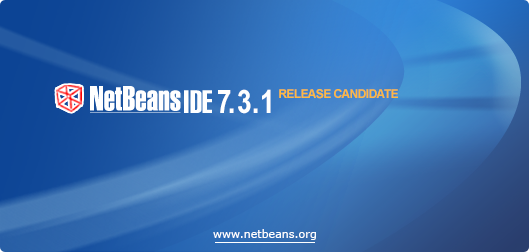
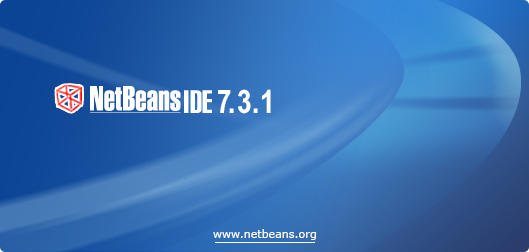
7.3.1 FCS branding.

Changed region(s): [[0.5142, 0.3333, 0.7561, 0.3889]]

diff --git a/installer/infra/build/web/start.html b/installer/infra/build/web/start.html
@@ -180,13 +180,6 @@
                                                     replace("{1}",LICENSE_FILES_LINK).
                                                     replace("{2}",LICENSE_FILES_LINK))
                                             </script>
-                                            <br><br>
-                                                <p>
-                                                    <script type="text/javascript">
-                                                            message(LEGAL_WARNING_MESSAGE)
-                                                    </script>
-                                                </p>
-
                                         </div>
                                     </div>
 

diff --git a/installer/infra/build/web/index.html b/installer/infra/build/web/index.html
@@ -278,12 +278,6 @@
                                         replace("{1}",LICENSE_FILES_LINK).
                                         replace("{2}",LICENSE_FILES_LINK))
                                 </script>
-                                <br><br>
-                                    <p>
-                                        <script type="text/javascript">
-                                                message(LEGAL_WARNING_MESSAGE)
-                                        </script>
-                                    </p>
                             </div>
                         </div>
 

diff --git a/installer/infra/build/web/js/build_info.js b/installer/infra/build/web/js/build_info.js
@@ -64,8 +64,8 @@ build_info.BOUNCER_URL = "http://services.netbeans.org/bouncer/index.php";
 build_info.USE_HTML_ZIP_LISTING = 1;
 
 build_info.add_download_tabs = function() {
-	add_download_tab("7.3", "http://netbeans.org/downloads/");
-        add_download_tab("7.3.1 RC");
+	add_download_tab("7.3", "http://netbeans.org/downloads/7.3/");
+        add_download_tab("7.3.1");
 	add_download_tab(DEVELOPMENT_TITLE ,DEVELOPMENT_BUILDS_LINK);
 	add_download_tab(ARCHIVE_TITLE,ARCHIVE_BUILDS_LINK);
 }
